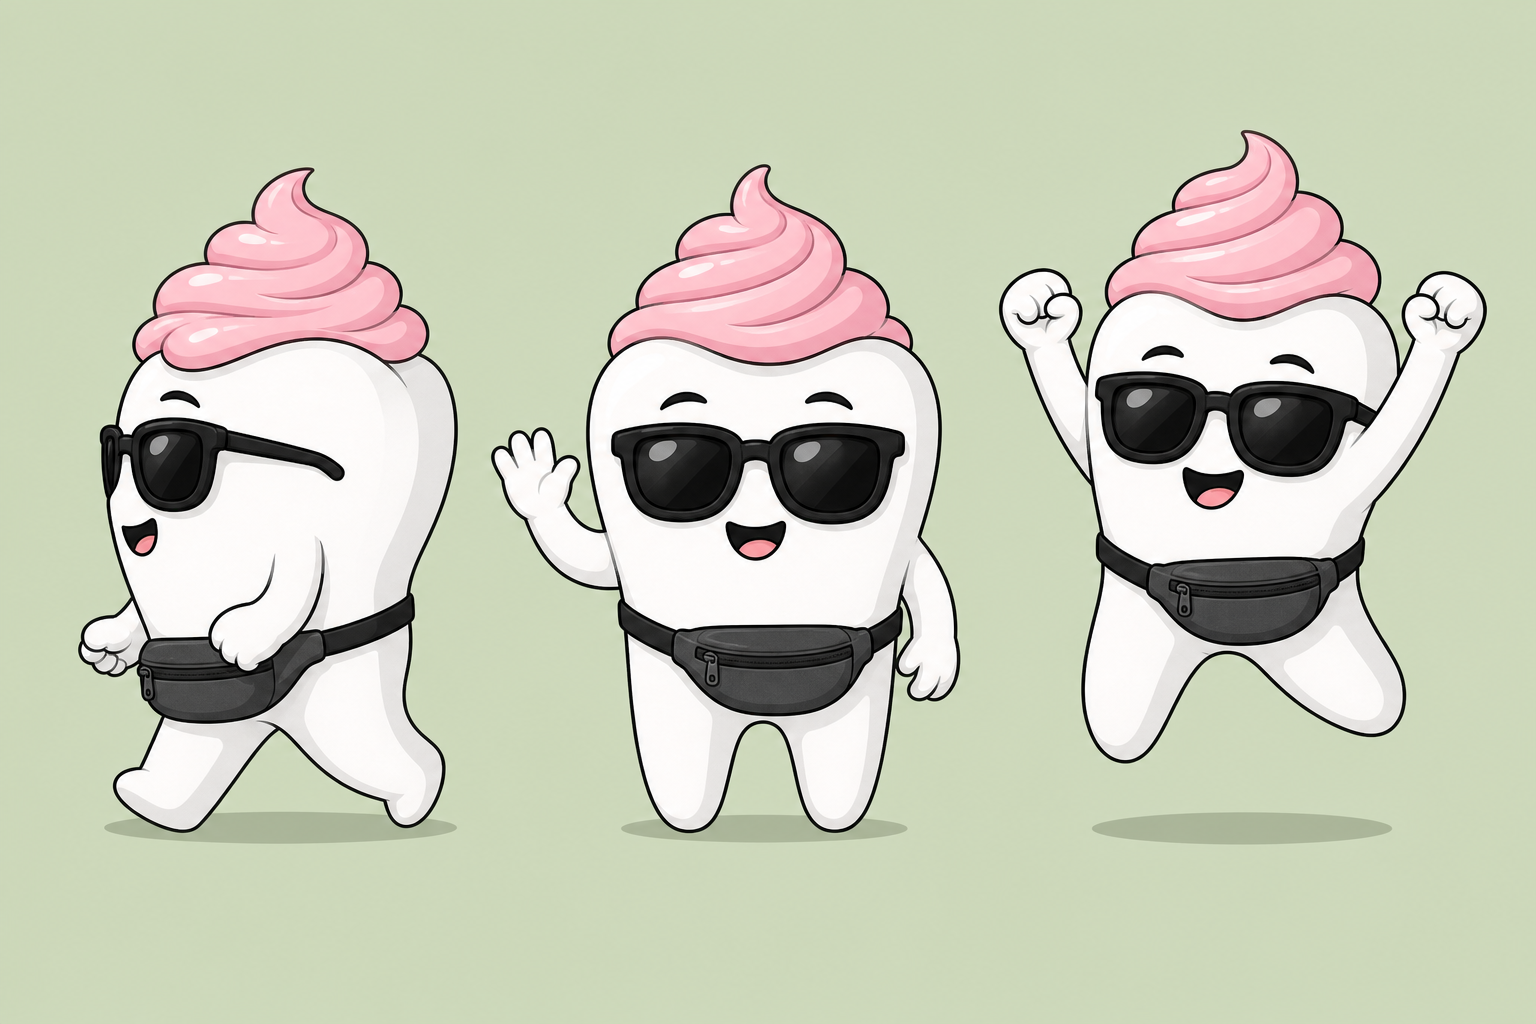
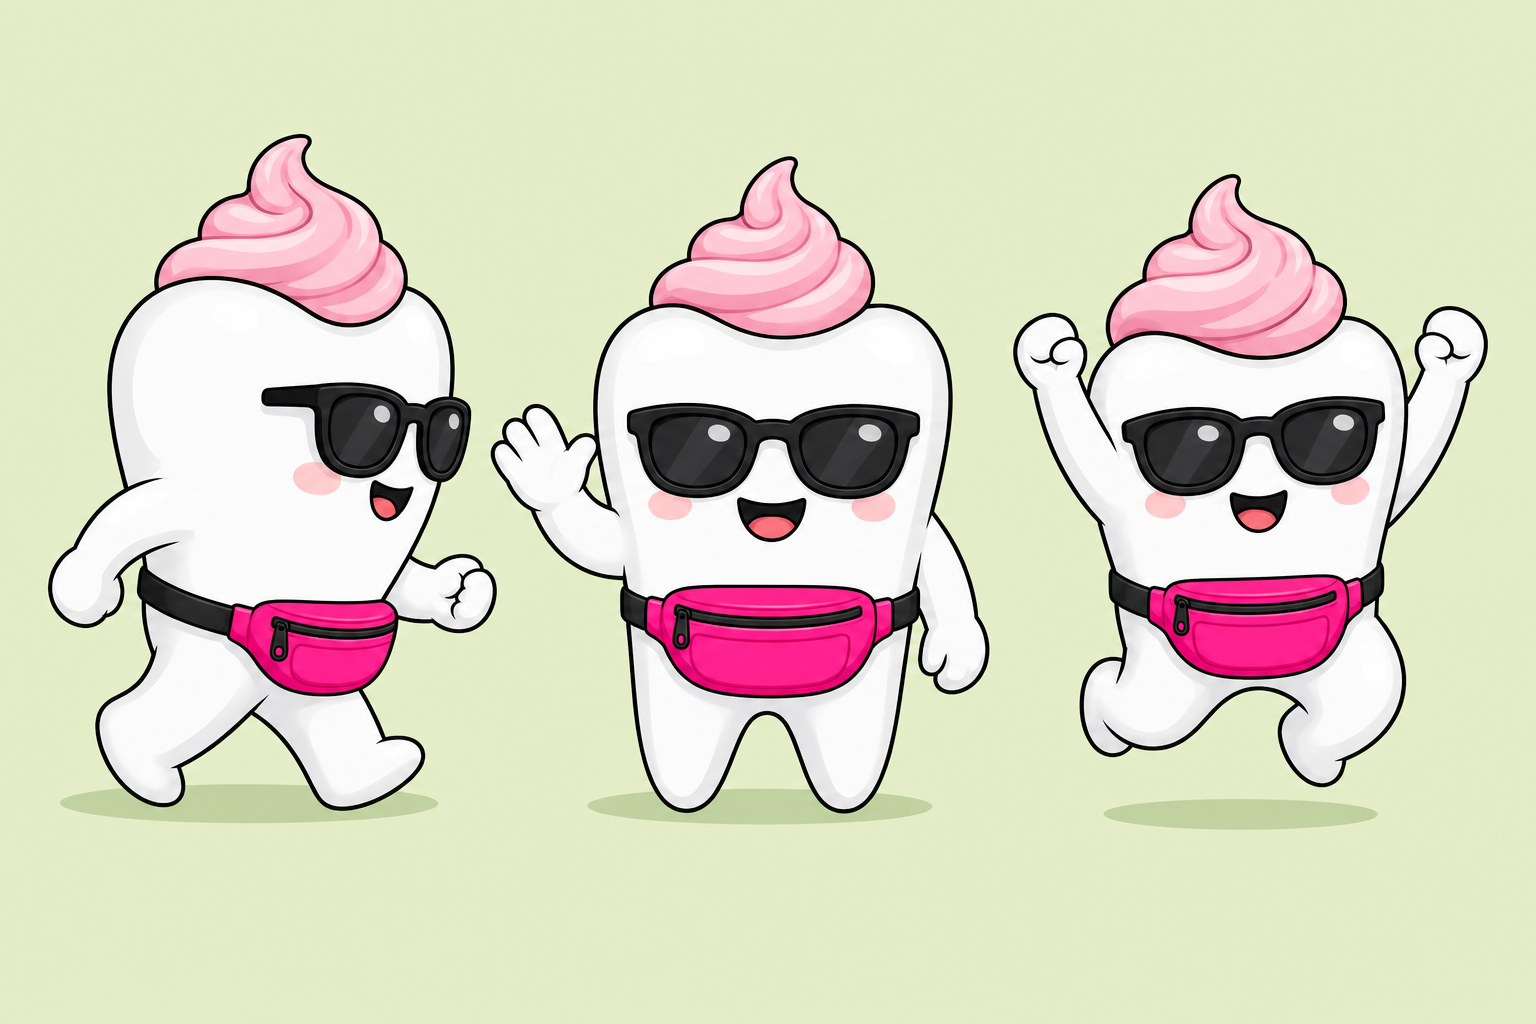
Brighten Toofie fanny pack to hot pink
Founder ask: make the fanny pack a bright color. Regenerated G5 locked
assets (pose sheet, hero, icon) with a vivid hot-pink pack; black frames
and frosting hair unchanged.

Changed region(s): [[0.0312, 0.125, 0.6562, 0.8438], [0.625, 0.125, 0.9688, 0.8438], [0.125, 0.0625, 0.1562, 0.125]]

diff --git a/pwa/public/mascot-locked.html b/pwa/public/mascot-locked.html
@@ -58,7 +58,7 @@
         <li>Walking molar tooth (not a blob)</li>
         <li>Pink frosting as hair (no cap)</li>
         <li>Black-frame glasses (not gold)</li>
-        <li>Fanny pack on the waist</li>
+        <li>Bright hot-pink fanny pack on the waist</li>
         <li>Walk / wave / celebrate pose system</li>
       </ul>
     </div>

diff --git a/.planning/DECISION-REGISTER.md b/.planning/DECISION-REGISTER.md
@@ -281,7 +281,7 @@ Founder: **"LETS GO G5 WITH FANNIE PACE AND BLACK FRAME GLASSES"**
 - **Form:** walking tooth (molar crown + root-legs) — not a marshmallow blob
 - **Hair:** pink frosting swirl on the crown (no cap)
 - **Glasses:** **black frames** (not gold)
-- **Accessory:** **fanny pack** on the waist
+- **Accessory:** **bright hot-pink fanny pack** on the waist (updated 2026-07-21 — was grey; founder asked for bright color)
 - **Pose system:** G5 sheet energy — walk / wave / celebrate
 - **Assets:** `pwa/public/mascot/toofie-g5-*.png` +
   `.planning/design-library/mascot/toofie-g5-*.png`
